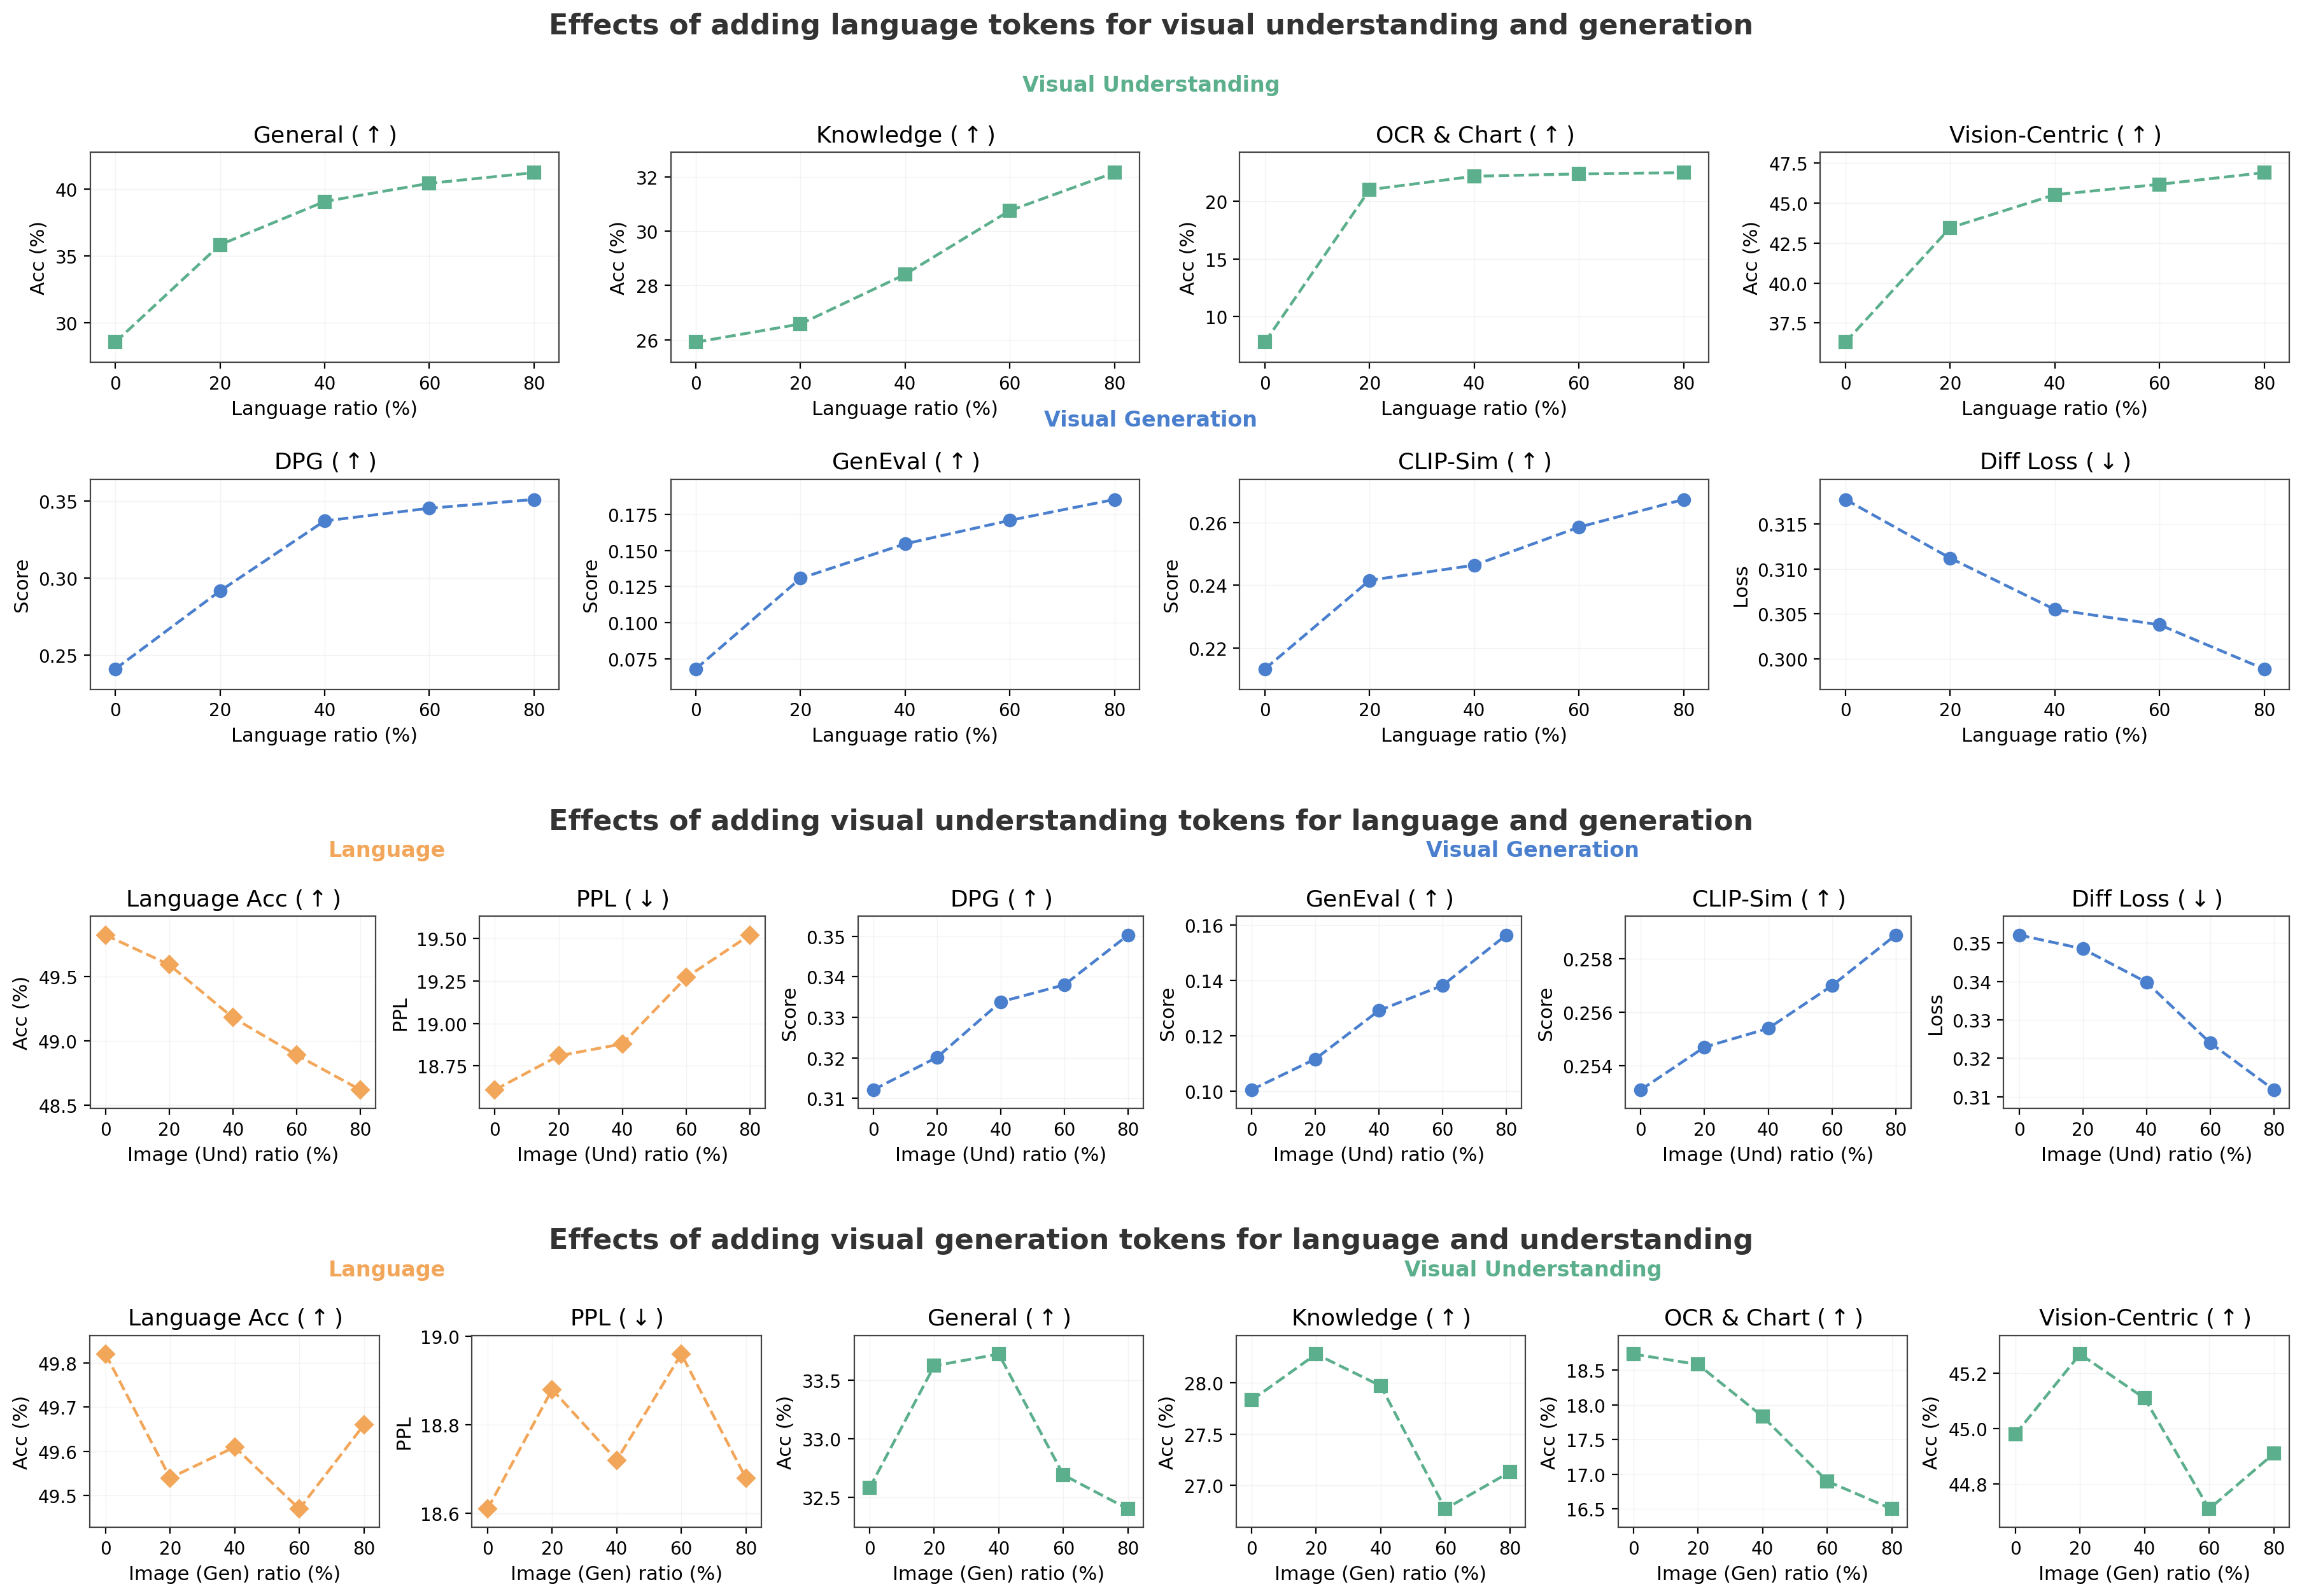
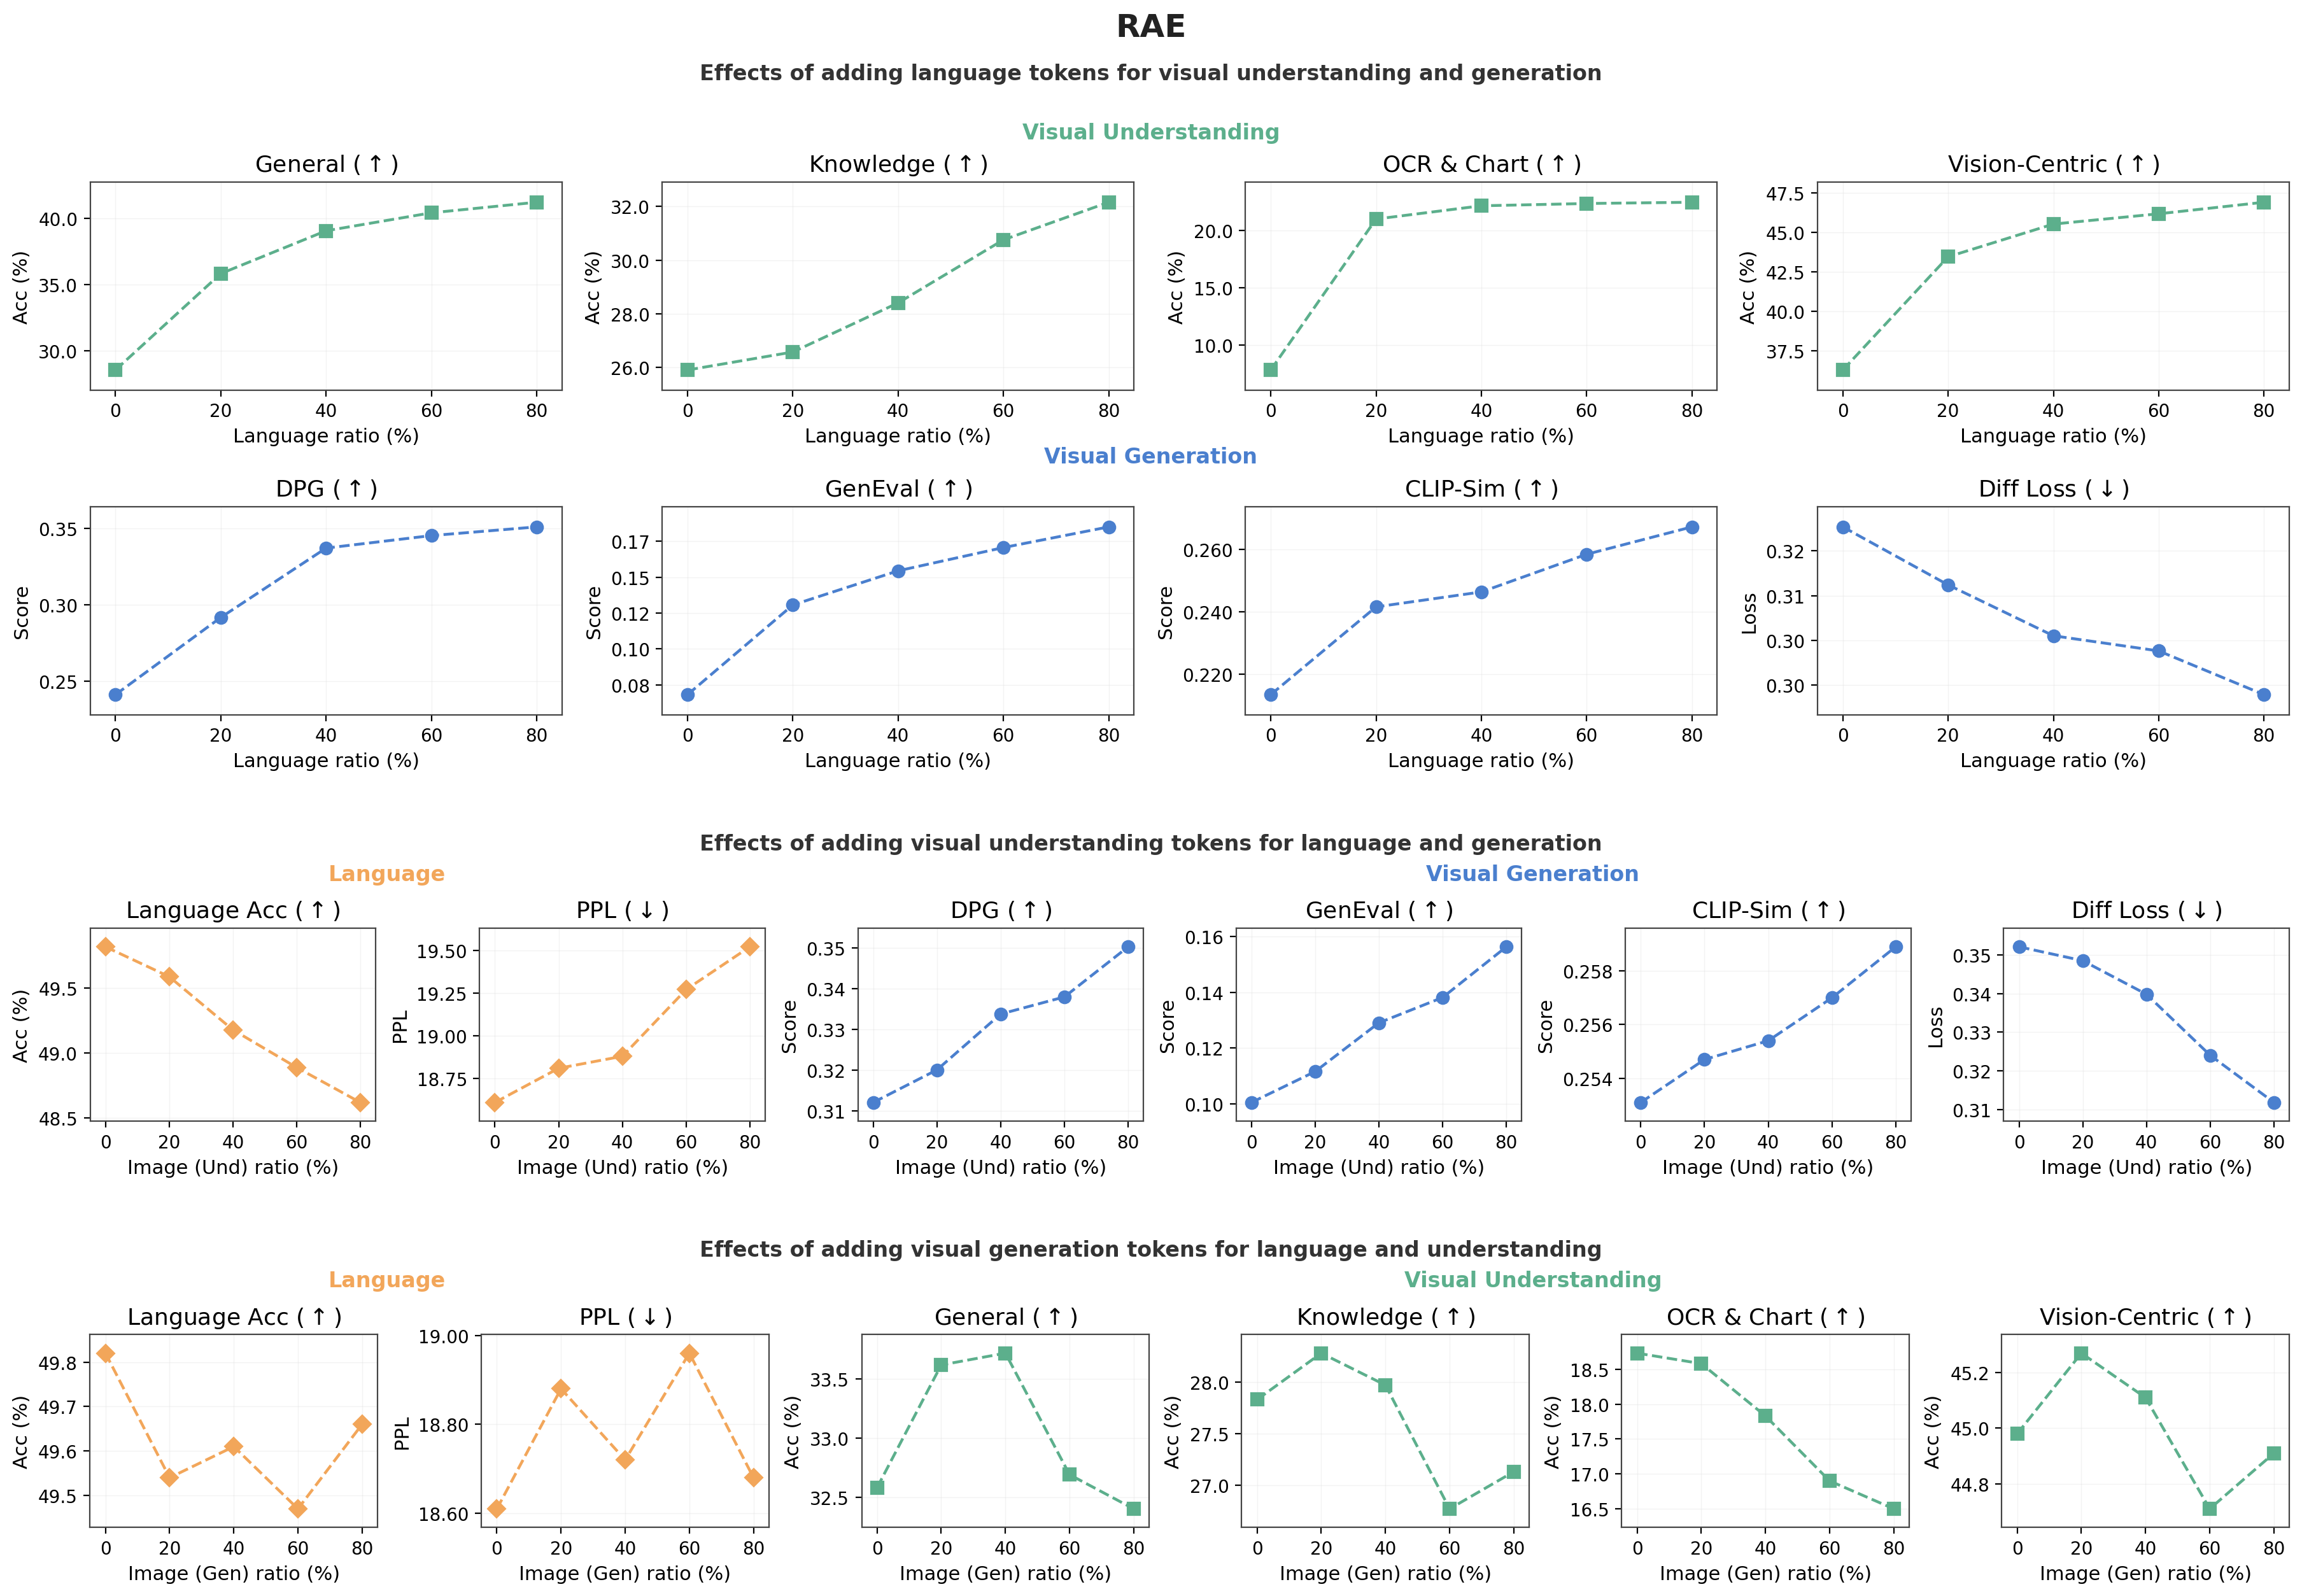
upd

diff --git a/projects/physics_of_mm_pretrain/index.html b/projects/physics_of_mm_pretrain/index.html
@@ -97,7 +97,7 @@
                 </div>
                 <div class="row">
                     <div class="col-lg-12">
-                        <p class="tldr-abstract mb-0">We provide a systematic, bottom-up exploration of unified multimodal pretraining. Utilizing controlled environments across both synthetic and real-world datasets, we investigate how modalities interact, compete, and co-evolve. We apply these insights to build efficient data-mixing recipes, and validate our findings at scale by training 13.5B Mixture-of-Experts (MoE) models on 2T tokens.</p>
+                        <p class="tldr-abstract mb-0">We provide a systematic, bottom-up exploration of unified multimodal pretraining. Utilizing controlled environments across both synthetic and real-world datasets, we investigate how modalities interact, compete, and co-evolve. We apply these insights to build efficient pretraining recipes, and validate our findings at scale by training 13.5B Mixture-of-Experts (MoE) models on 2T tokens.</p>
                     </div>
                 </div>
             </div>
@@ -116,8 +116,8 @@
             <a href="#sec-synergy" class="contents-card contents-card--teal">
                 <span>02</span>
                 <strong>Synergy &amp; Compete</strong>
-                <em>How task complexity and parameter sharing decide whether modalities help or compete.</em>
-                <small>2A Data complexity<br>2B Architecture sharing</small>
+                <em>Task complexity and parameter sharing decide whether modalities help or compete.</em>
+                <small>2A Task complexity<br>2B Architecture sharing<br>2C Vision encoders</small>
             </a>
             <a href="#sec-unification" class="contents-card contents-card--blue">
                 <span>03</span>
@@ -173,10 +173,15 @@
                             </summary>
                             <div class="study-card__body">
                                 <p class="body-text">
-                                    The real-world study trains unified models from scratch, adding more of one modality's data on top of a fixed counterpart allocation and reading off the effect on the other capabilities.
+                                    The real-world study trains unified models from scratch, adding more of one modality's data on top of a fixed counterpart allocation and reading off the effect on the other capabilities. The same trends hold across visual tokenizers.
                                 </p>
+                                <div class="figure-toggle" role="group" aria-label="Select vision encoder">
+                                    <button type="button" class="figure-toggle__btn is-active" data-fig="assets/figures/part123_supp_rae.png" data-label="RAE">RAE</button>
+                                    <button type="button" class="figure-toggle__btn" data-fig="assets/figures/part123_supp_rawp.png" data-label="Raw Pixels">Raw Pixels</button>
+                                    <button type="button" class="figure-toggle__btn" data-fig="assets/figures/part123_supp_vae.png" data-label="CLIP + VAE">CLIP + VAE</button>
+                                </div>
                                 <div class="section-figure section-figure--wide section-figure--framed">
-                                    <img src="assets/figures/part123_supp_rae.png" alt="Impact of scaling modality-specific data" class="img-fluid" loading="lazy">
+                                    <img src="assets/figures/part123_supp_rae.png" alt="Modality transfer results with the RAE tokenizer" class="img-fluid" loading="lazy" id="part1a-figure">
                                 </div>
                                 <p class="section-caption">
                                     Effect of adding more of each modality's data on the other capabilities, spanning language axes, understanding metrics, and generation results.
@@ -273,7 +278,7 @@
                                     Cross-modal interference as one stream climbs the complexity ladder, measured against unimodal baselines.
                                 </p>
                                 <p class="body-text">
-                                    Simple counterparts (solid backgrounds, patterns, repeated-letter text) push the partner below its unimodal baseline (synergy), while complex data (OCR, video, natural images) pushes it above (competition), and the effect is symmetric across both modalities. So task complexity largely determines whether modalities help or compete.
+                                    Simple counterparts (solid backgrounds, patterns, repeated-letter text) push the partner below its unimodal baseline (synergy), while complex data (video, natural images) pushes it above (competition), and the effect is symmetric across both modalities. So task complexity largely determines whether modalities help or compete.
                                 </p>
                             </div>
                         </details>
@@ -300,9 +305,31 @@
                             </div>
                         </details>
 
+                        <details class="study-card study-card--green">
+                            <summary class="study-card__header">
+                                <span class="study-card__step">Part 2C</span>
+                                <span class="study-card__title">Generalization across vision encoder designs</span>
+                                <span class="study-card__hint">Expand</span>
+                            </summary>
+                            <div class="study-card__body">
+                                <p class="body-text">
+                                    Are these synergies tied to a specific visual representation? Reusing the Part 2B split-training protocol with synergy-maximizing probes, we repeat the study across three tokenization designs: the default <strong>RAE</strong> (based on SigLIP-2), <strong>Raw Pixels</strong> (encoder free), and the decoupled <strong>CLIP + VAE</strong>.
+                                </p>
+                                <div class="section-figure section-figure--wide section-figure--framed section-figure--medium">
+                                    <img src="assets/figures/part12_arch_encoders.png" alt="Impact of vision encoder designs on modality synergy" class="img-fluid" loading="lazy">
+                                </div>
+                                <p class="section-caption">
+                                    Effect of each encoder design on language perplexity (&Delta;PPL) and on relative image loss (%) for conditional and unconditional generation.
+                                </p>
+                                <p class="body-text">
+                                    Synergy holds across all three designs. Even Raw Pixels, with no semantic prior, gives the largest language gain (&Delta;PPL &minus;0.266 vs. RAE &minus;0.211), and decoupled CLIP + VAE still boosts generation despite separate latent spaces. So a pre-aligned or shared vision space is not required for synergy, which is a fundamental property of joint pretraining driven by task objectives and parameter sharing.
+                                </p>
+                            </div>
+                        </details>
+
                         <div class="callout callout--green">
                             <p>
-                                <strong>Takeaway 2:</strong> Modality interaction is governed by task complexity and parameter sharing: simple tasks act as cross-modal boosters while complex tasks trigger capacity competition that outweighs synergy, and architecturally, sharing attention and normalization fosters synergy while decoupling feed-forward networks mitigates competition.
+                                <strong>Takeaway 2:</strong> Modality interaction is governed by task complexity and parameter sharing: simple tasks act as cross-modal boosters while complex tasks trigger capacity competition that outweighs synergy, and architecturally, sharing attention and normalization fosters synergy while decoupling feed-forward networks mitigates competition. These effects hold across multiple vision tokenizers.
                             </p>
                         </div>
                     </div>
@@ -589,7 +616,7 @@
                         <div class="faq-list">
                             <details class="faq-item">
                                 <summary>What is vision laziness?</summary>
-                                <p>Vision laziness happens when late visual integration lets the model lean on language priors instead of actively using vision components. Internally, visual FFNs, image-wrapper tokens, and attention to image tokens all become weaker.</p>
+                                <p>Vision laziness happens when late visual integration lets the model lean on language priors instead of actively learning vision components. Internally, visual FFNs, image-wrapper tokens, and attention to image tokens all become weaker.</p>
                             </details>
 
                             <details class="faq-item">
@@ -738,6 +765,26 @@
             });
 
             setTheme(root.getAttribute('data-theme') === 'dark' ? 'dark' : 'light');
+        });
+
+        document.addEventListener('DOMContentLoaded', function() {
+            document.querySelectorAll('.figure-toggle').forEach(function(group) {
+                const figure = group.parentElement.querySelector('.section-figure img');
+                const label = group.parentElement.querySelector('#part1a-encoder-label');
+                group.querySelectorAll('.figure-toggle__btn').forEach(function(btn) {
+                    btn.addEventListener('click', function() {
+                        group.querySelectorAll('.figure-toggle__btn').forEach(function(b) {
+                            b.classList.remove('is-active');
+                        });
+                        btn.classList.add('is-active');
+                        if (figure) {
+                            figure.src = btn.dataset.fig;
+                            figure.alt = 'Modality transfer results with the ' + btn.dataset.label + ' tokenizer';
+                        }
+                        if (label) label.textContent = btn.dataset.label;
+                    });
+                });
+            });
         });
 
         document.addEventListener('DOMContentLoaded', function() {

diff --git a/projects/physics_of_mm_pretrain/styles.css b/projects/physics_of_mm_pretrain/styles.css
@@ -1585,6 +1585,7 @@ a { color: var(--link-color); }
 }
 
 .contents-card em {
+    margin-bottom: 14px;
     color: var(--text-color);
     font-size: 0.86rem;
     font-style: normal;
@@ -1593,7 +1594,7 @@ a { color: var(--link-color); }
 
 .contents-card small {
     display: block;
-    margin-top: 14px;
+    margin-top: auto;
     padding-top: 12px;
     border-top: 1px solid rgba(0, 0, 0, 0.06);
     color: var(--text-color);
@@ -1796,6 +1797,38 @@ a { color: var(--link-color); }
 
 .study-card__body .section-figure {
     margin-top: 24px;
+}
+
+.figure-toggle {
+    display: flex;
+    flex-wrap: wrap;
+    gap: 8px;
+    justify-content: center;
+    margin-top: 24px;
+}
+
+.figure-toggle__btn {
+    font-family: var(--font-family);
+    font-size: 0.85rem;
+    font-weight: 500;
+    padding: 6px 16px;
+    border-radius: 999px;
+    border: 1px solid rgba(55, 123, 228, 0.35);
+    background: transparent;
+    color: var(--text-color);
+    cursor: pointer;
+    transition: background 0.18s ease, color 0.18s ease, border-color 0.18s ease;
+}
+
+.figure-toggle__btn:hover {
+    border-color: var(--primary-color);
+    color: var(--primary-color);
+}
+
+.figure-toggle__btn.is-active {
+    background: var(--primary-color);
+    border-color: var(--primary-color);
+    color: #fff;
 }
 
 .study-card__body .arch-card {